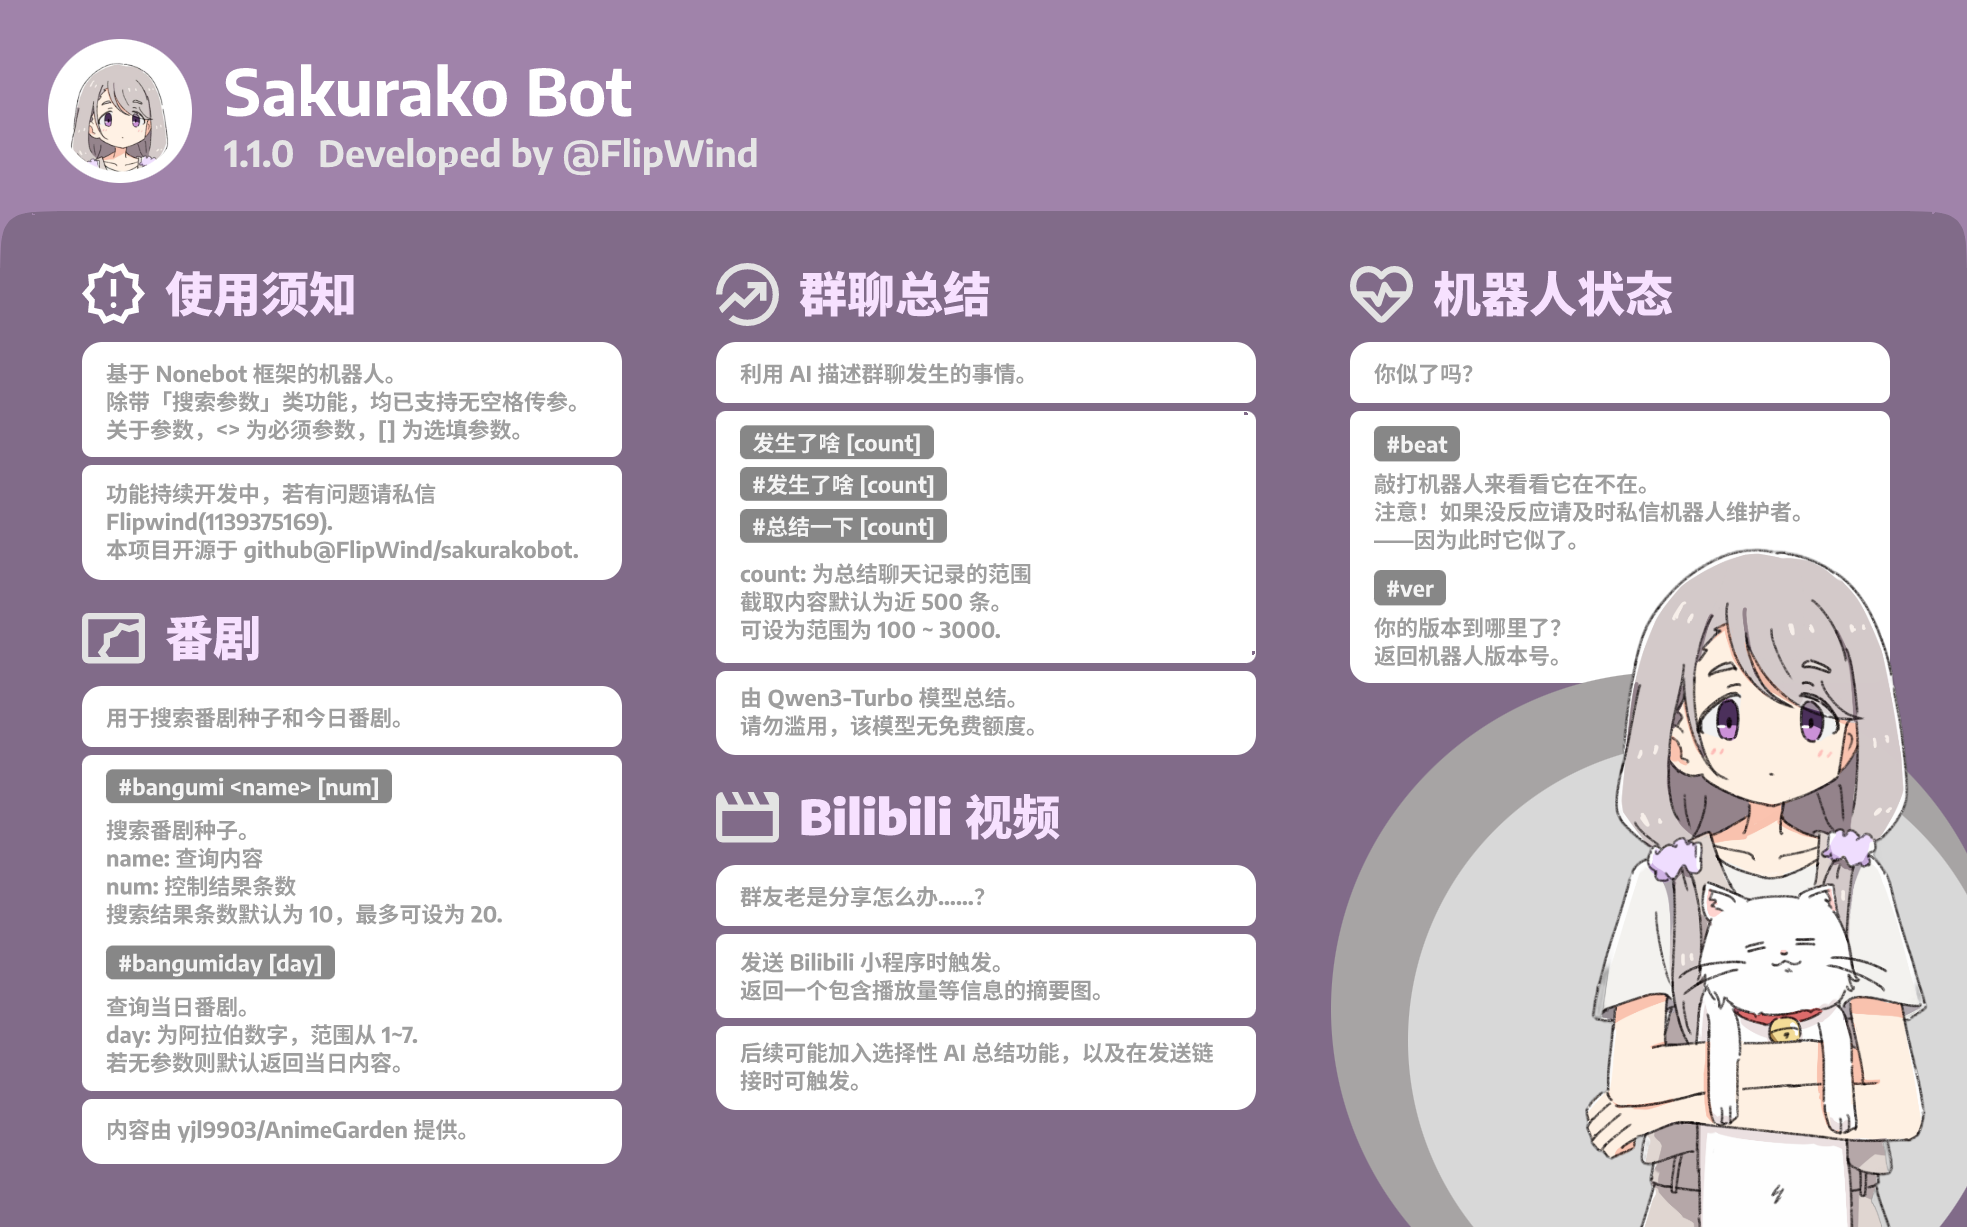
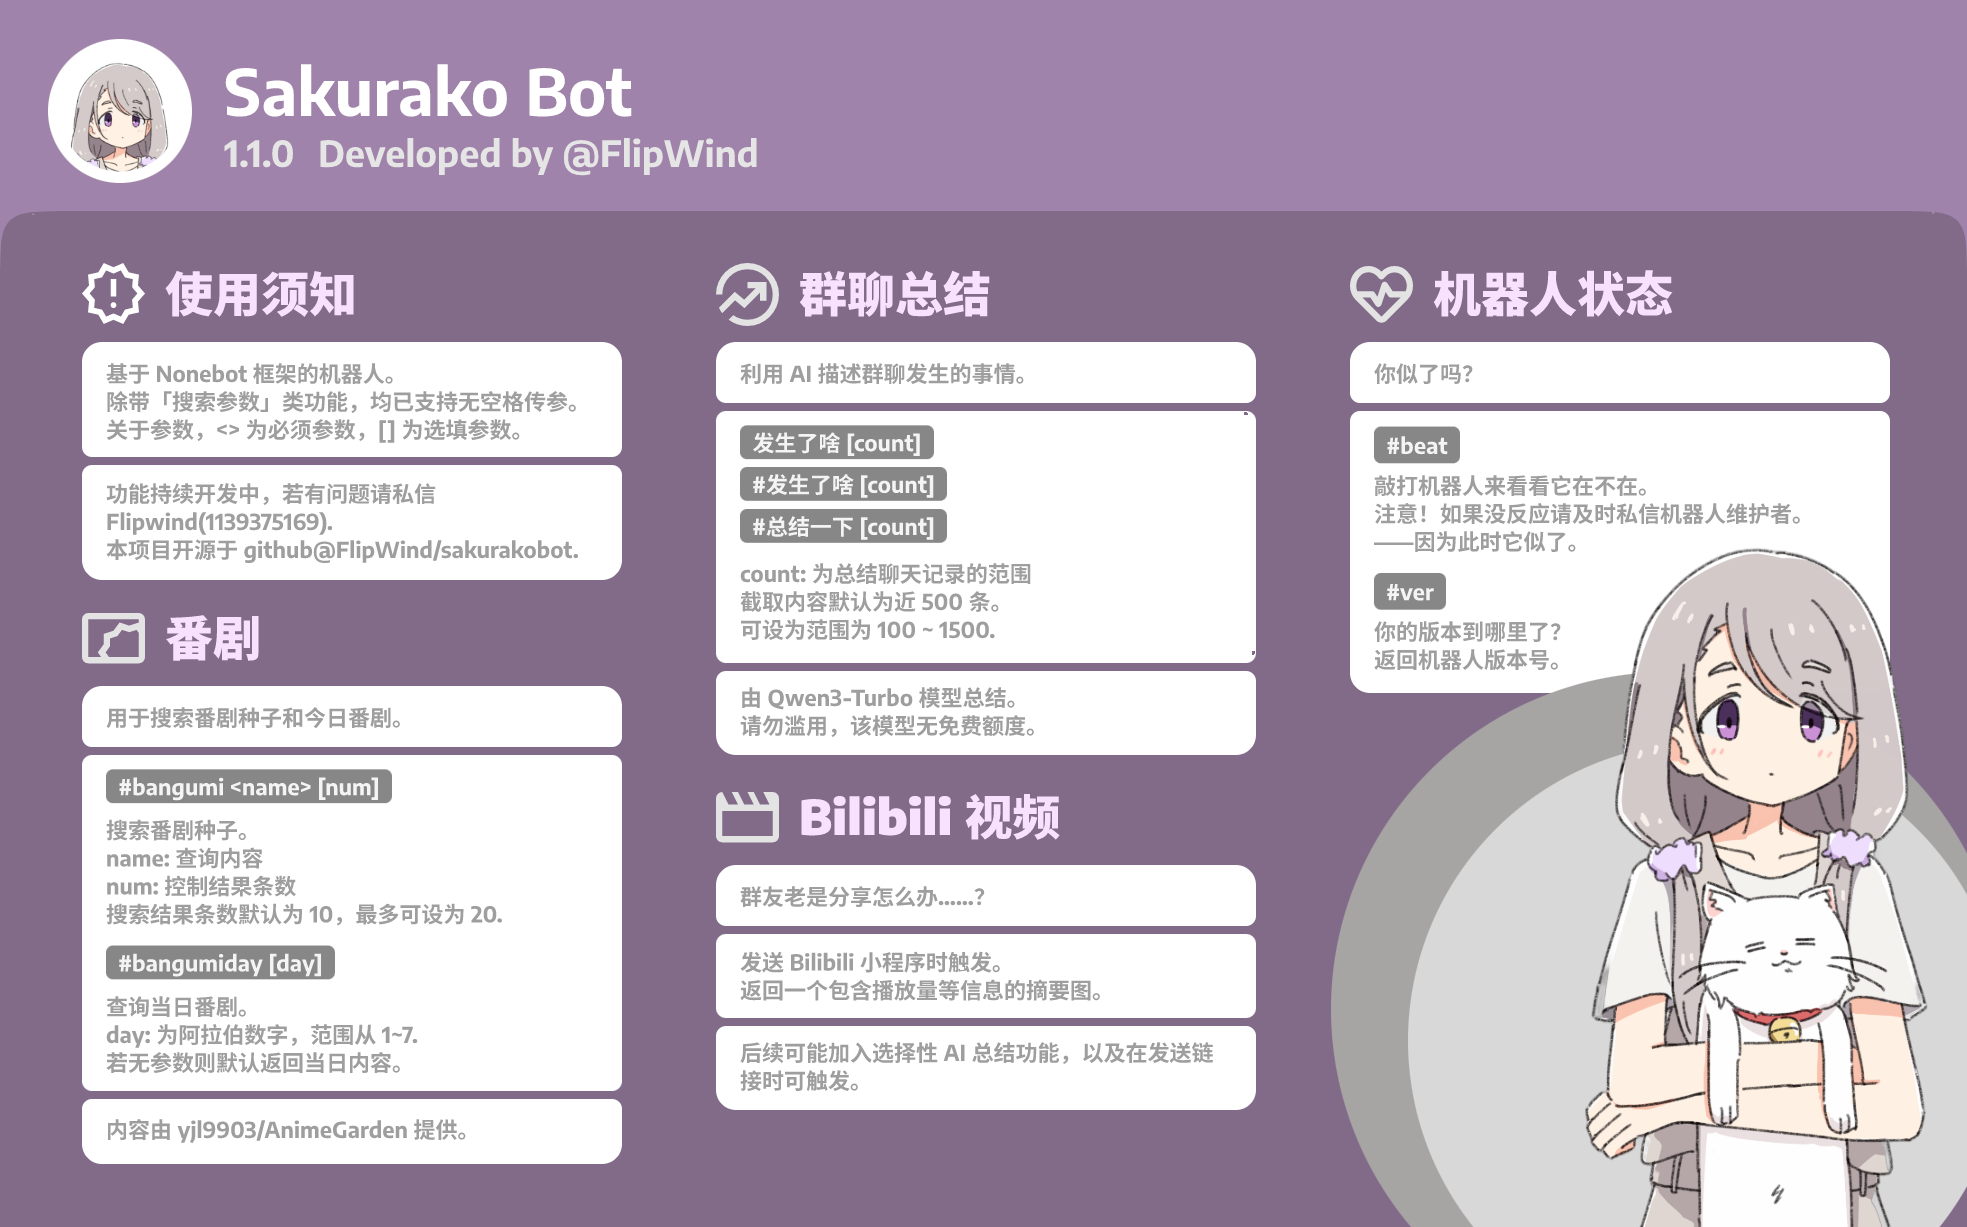
fix: reduce summarize message to 1500 and correct a hint message

Changed region(s): [[0.6823, 0.3407, 0.9304, 0.5884], [0.4652, 0.4955, 0.4962, 0.5265]]

diff --git a/src/plugins/what_happened/main.py b/src/plugins/what_happened/main.py
@@ -14,9 +14,9 @@ async def _(
     if COMMAND_OUTPUT:
         await whathappened.send(f"Handle [#发生了啥] with count [{count.result}]")
 
-    if count.result > 3000:
-        await whathappened.send("消息过多，已限制为 3000 条消息。")
-        count.result = 3000
+    if count.result > 1500:
+        await whathappened.send("消息过多，已限制为 1500 条消息。")
+        count.result = 1500
     if count.result < 100:
         await whathappened.send("消息过少，已调整为 100 条消息。")
         count.result = 100
@@ -42,7 +42,7 @@ async def _(
         )
 
     content = await chatapi.summarize_chat(p)
-    messages = ["下面是最近 500 条的总结喵。", content, "使用 Qwen3-turbo 总结。"]
+    messages = [f"下面是最近 {count.result} 条的总结喵。", content, "使用 Qwen3-turbo 总结。"]
     
     await send_node_messages(event, messages)
     sakurako_state[group_key]["whathappened"] = "done"

diff --git a/src/plugins/what_happened/chatapi.py b/src/plugins/what_happened/chatapi.py
@@ -15,6 +15,18 @@ prompt = """
 
 api_key = LLM_ALIYUN_APIKEY
 
+def cq_type(message: str) -> str:
+    # Use regex to find CQ codes like [CQ:image,...] or [CQ:video,...]
+    match = re.search(r'\[CQ:([^,]+)', message)
+    if not match:
+        return message
+
+    cq_type = match.group(1).strip()
+    if "表情" in message:
+        cq_type = "动画表情"
+        
+    return f"[{cq_type} Message]"
+
 async def summarize_chat(data: dict) -> str:
     messages = data.get("messages", [])
     result = []
@@ -27,7 +39,7 @@ async def summarize_chat(data: dict) -> str:
         user_id = sender.get("user_id", "Unknown")
         raw_message = message.get("raw_message", "")
         result.append(
-            f"Name: {nickname}, time: {formatted_time}, Message: {raw_message}, "
+            f"USER {nickname} ON {formatted_time} SEND: {cq_type(raw_message)}, "
         )
 
     formatted_output = "\n".join(result)

diff --git a/src/plugins/utils/__init__.py b/src/plugins/utils/__init__.py
@@ -18,6 +18,7 @@ import io
 import base64
 import json
 import pathlib
+import re
 
 require("nonebot_plugin_alconna")
 from arclet.alconna import Alconna, Alconna, Args, Option, MultiVar
